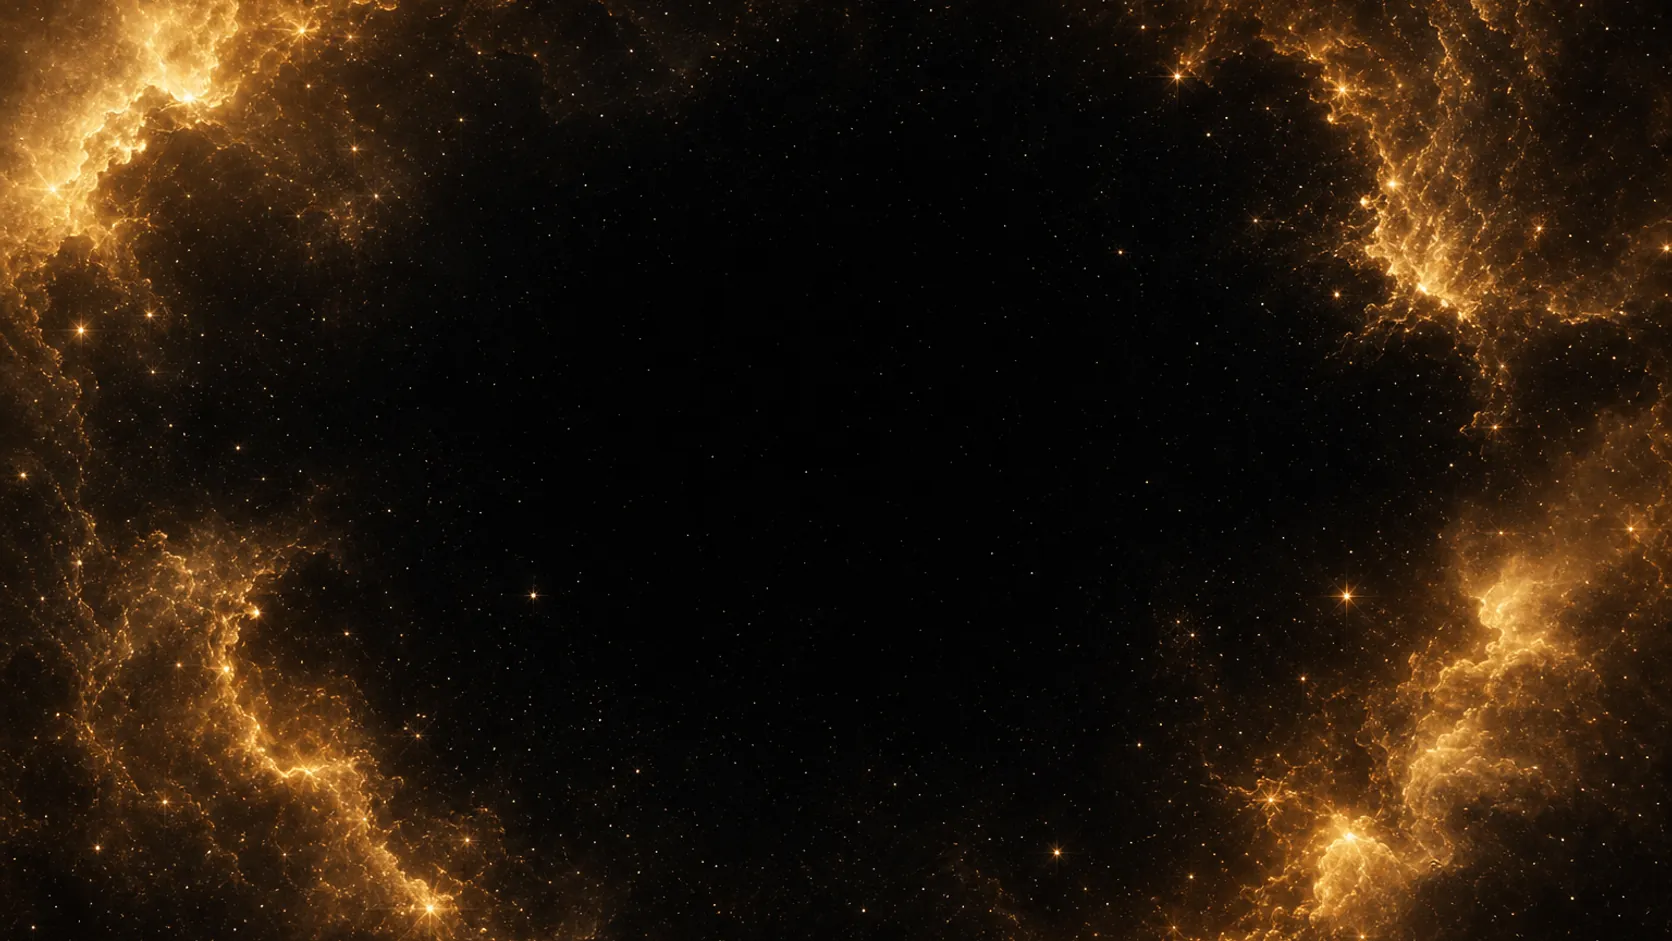
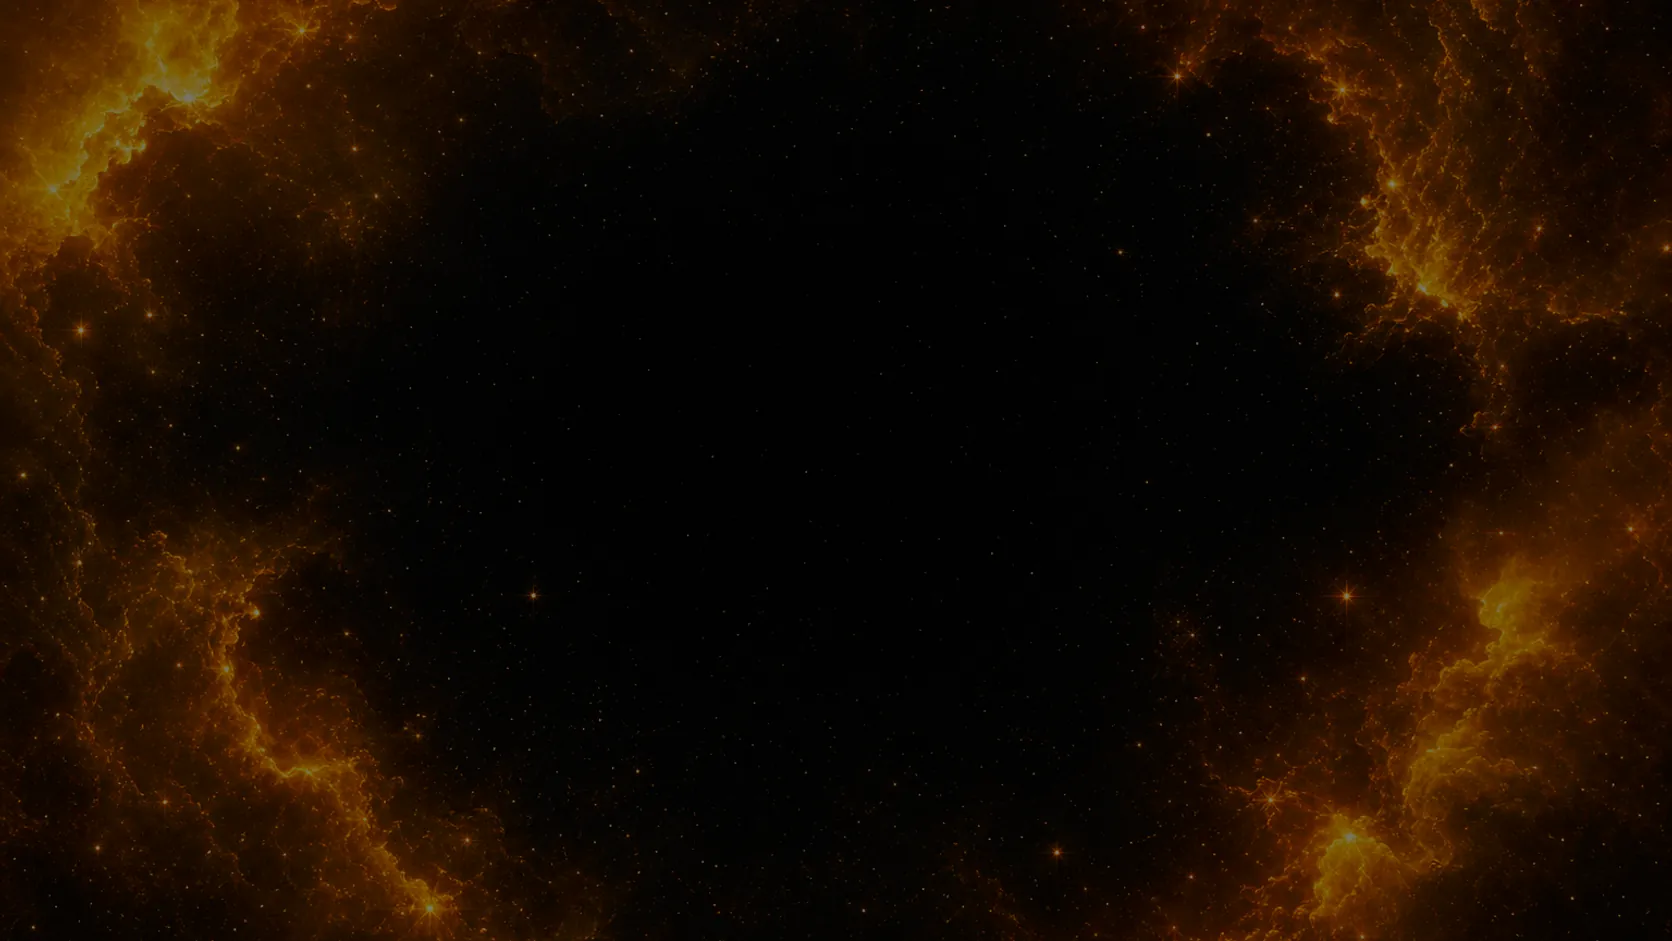
fix(hero): reduce cosmic corner blowout, restore dark minimalism
Stacking two bright warm-gold nebula layers (cosmic bg + nebula via screen blend) over-brightened the hero corners into washed-out near-white highlights, violating the design-system mandate to keep #0a0a0a darkness/minimalism.

Darken both cosmic backgrounds to ~50% brightness (desktop 66KB, mobile 77KB) and lower .cosmic-nebula-layer screen opacity 0.42 -> 0.26. Corners now read as deep warm-gold against a dark void; the scrolled depth-passage state is unchanged.

diff --git a/app/globals.css b/app/globals.css
@@ -177,7 +177,7 @@ button:not(.nav-menu-button):hover {
 
 .cosmic-nebula-layer {
   mix-blend-mode: screen;
-  opacity: 0.42;
+  opacity: 0.26;
 }
 
 /* Subtle premium warmth on Hero cosmic background — overlay always; filter desktop-only */